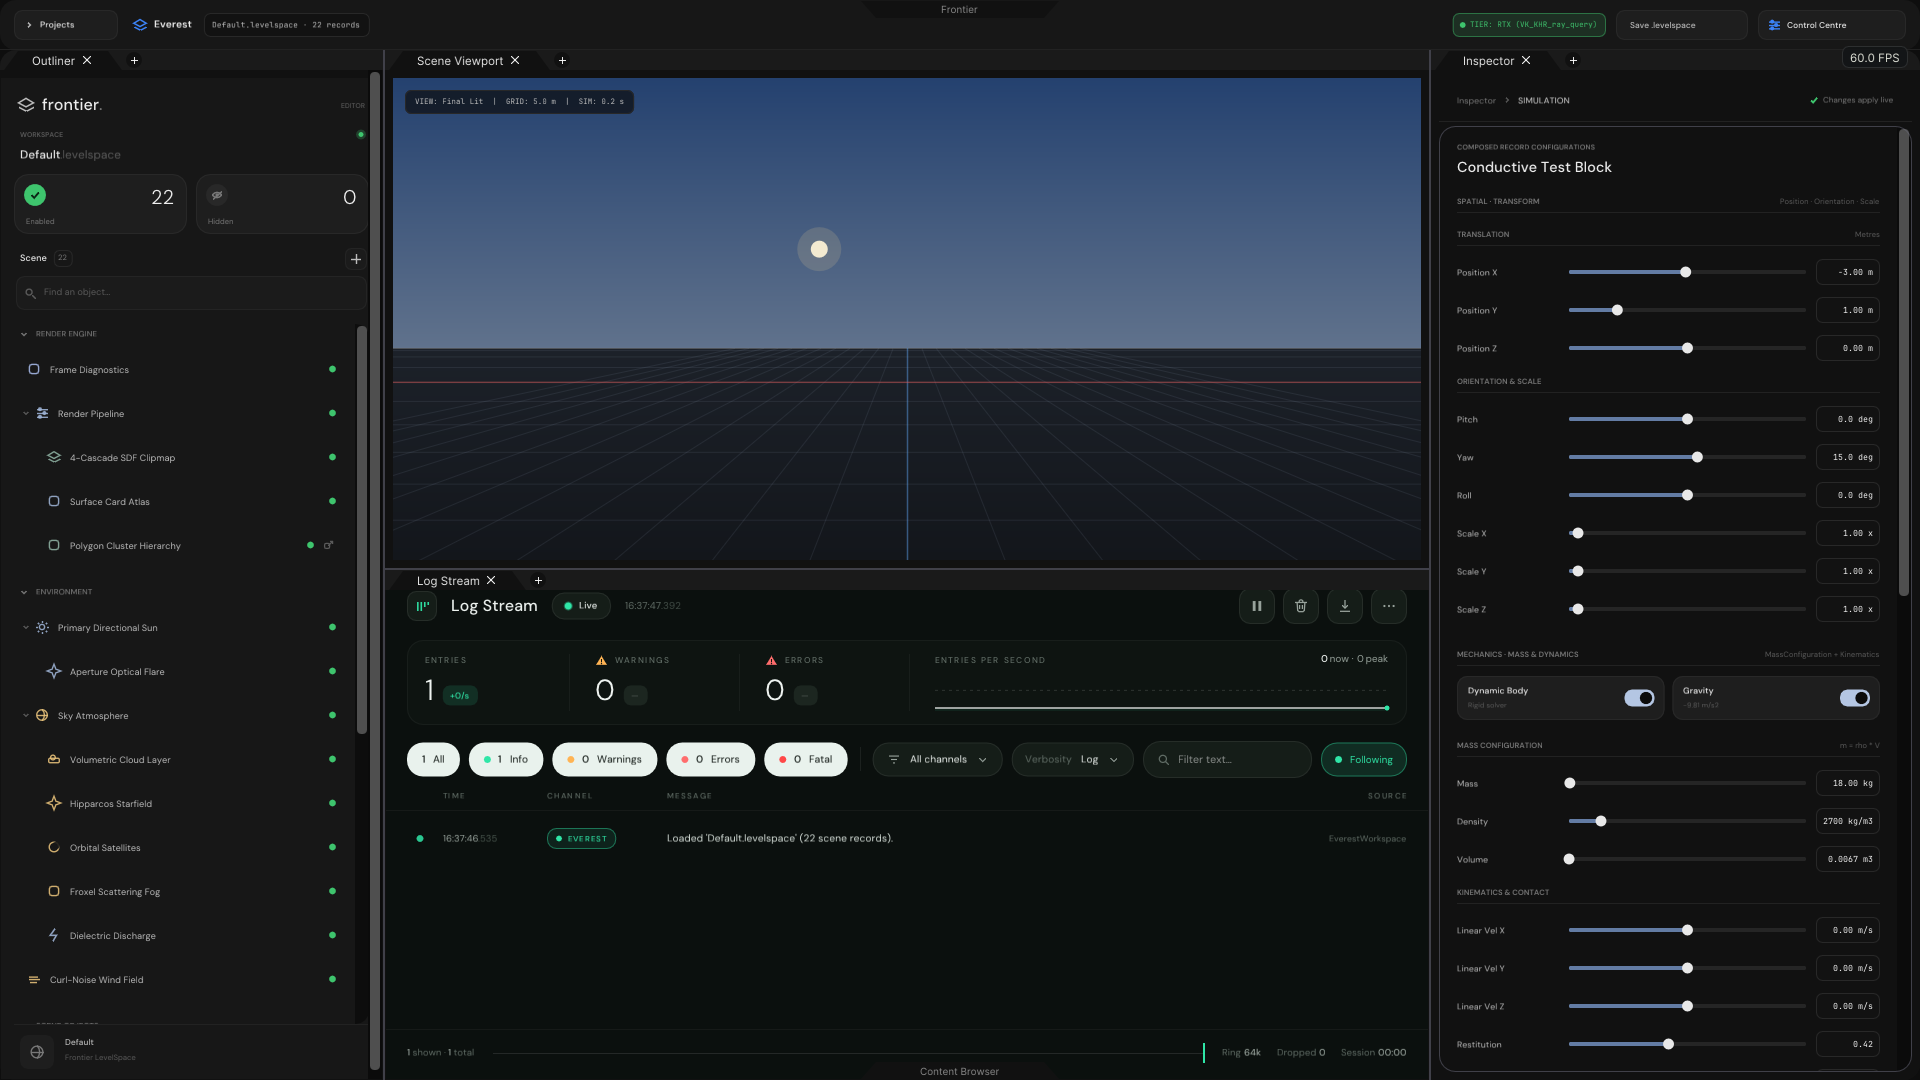
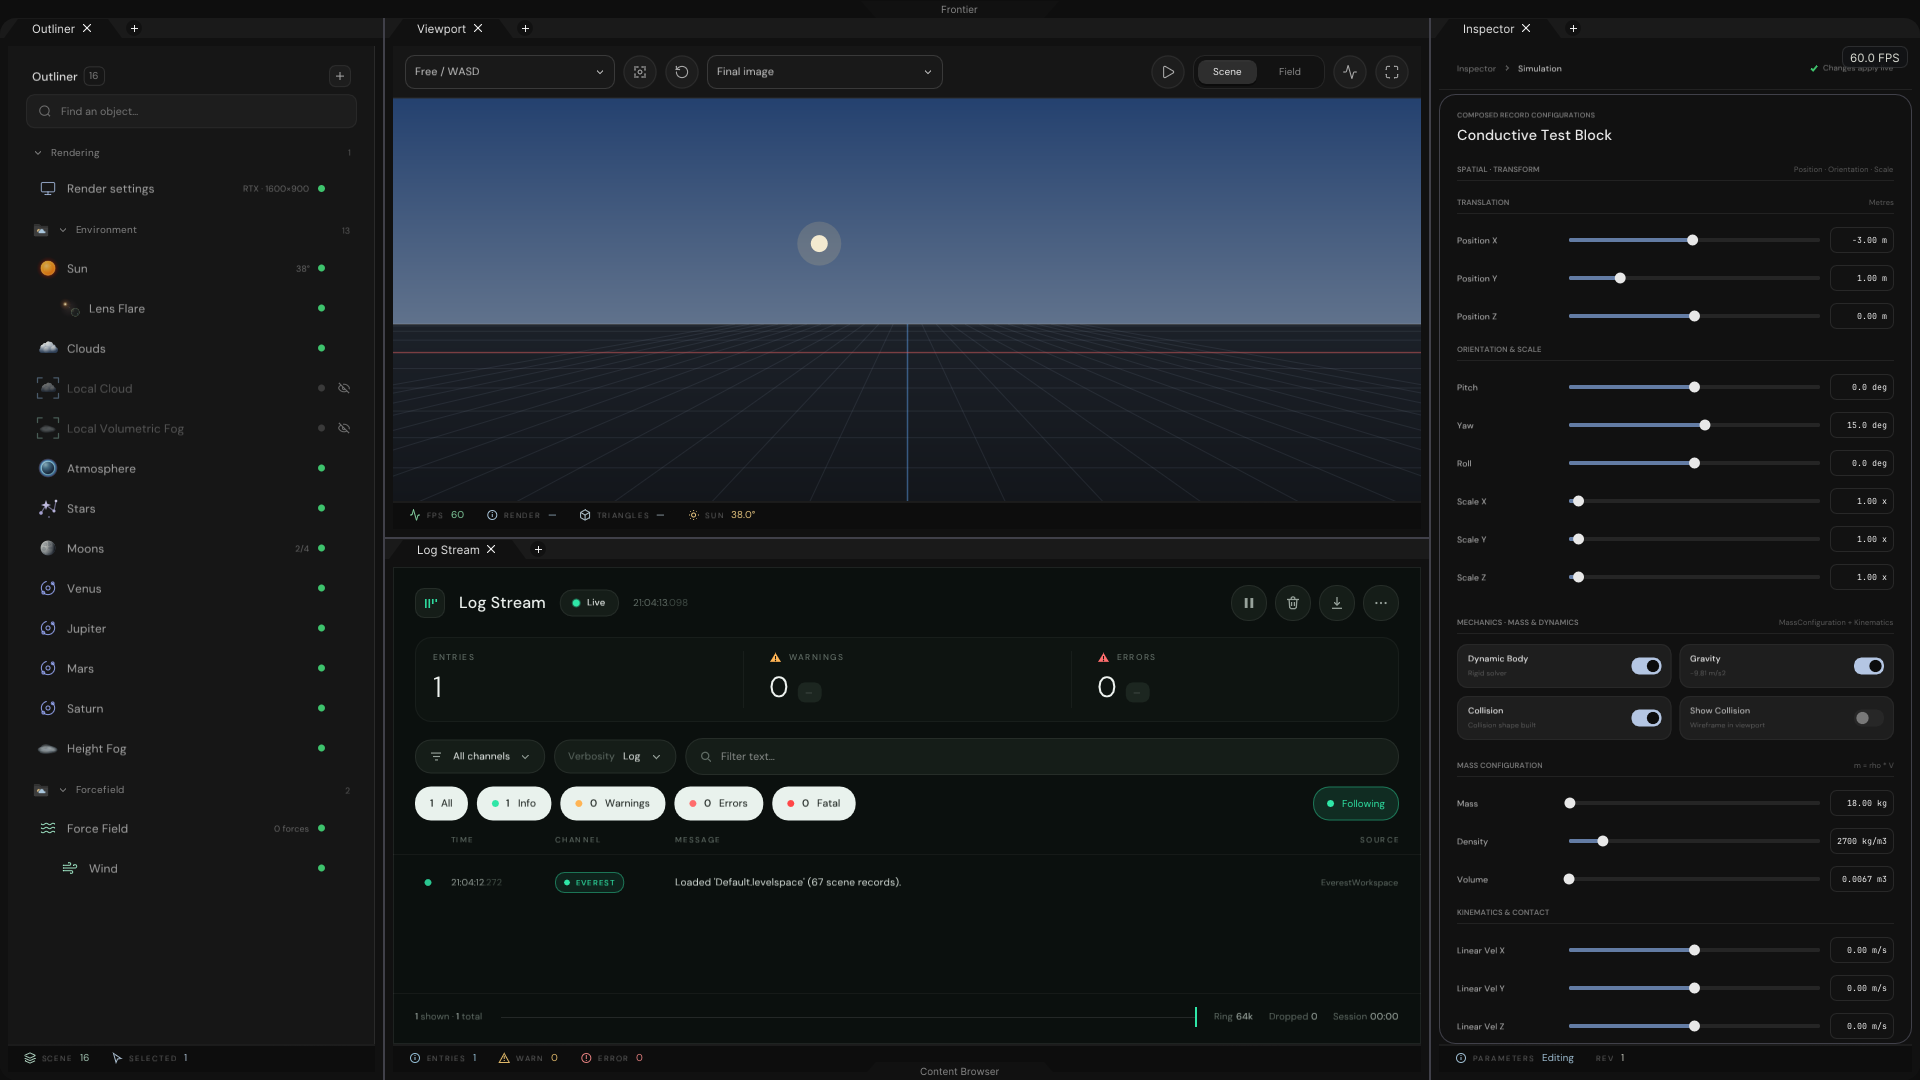
Physics-body collision tiles + fresh vehicle driving render
- PhysicsConfiguration gains Collision / ShowCollision (levelspace
  collision / show_collision in the physics subtable)
- PhysicsInspector switch grid gains Collision and Show Collision tiles,
  so RigidBody / ThermalBody and every composed physics body gets them
- PhysicsExtension builds no shape for a RigidBody with Collision off
- Viewport draws the body sphere wireframe (3 great circles) when
  Show collision is on
- PhysicsSpaceValidation 21/21: ball rests at 0.103 m with Collision on,
  no moving body with it off
- VehicleRunningProvingGround.gif re-rendered from a live
  VehicleWorkspaceCapture run (32 frames, launch to ABS brake)

diff --git a/Projects/Everest/Source/EverestWorkspace.cpp b/Projects/Everest/Source/EverestWorkspace.cpp
@@ -1322,6 +1322,36 @@ void EverestWorkspace::ConstructViewportSurface()
             for (const auto& Edge : Edges)
                 DrawList->AddLine(Corners[static_cast<size_t>(Edge[0])], Corners[static_cast<size_t>(Edge[1])], Ink, 1.5f * Scale);
         }
+        // 📝 Physics bodies (RigidBody records): the sphere of their volume the physics builds, as three great circles.
+        for (const Frontier::SceneRecordBase* Record : QueryWorldSpace().FindAllByType("RigidBody"))
+        {
+            const auto* Body = dynamic_cast<const Frontier::RigidBodyRecord*>(Record);
+            if (Body == nullptr || !Body->QueryPhysics().ShowCollision) continue;
+            const Frontier::PhysicsConfiguration& Physics = Body->QueryPhysics();
+            const double Volume = Physics.Mass.MassKilograms / std::max(1.0e-3f, Physics.Mass.DensityKgPerCubicMetre);
+            const double Radius = std::clamp(std::cbrt(3.0 * Volume / (4.0 * 3.14159265358979323846)), 0.05, 50.0);
+            const auto&  Centre = Body->QuerySpatial().PositionMetres;
+            const ImU32  Ink    = Physics.Collision ? IM_COL32(120, 230, 140, 220) : IM_COL32(230, 120, 110, 220);
+            constexpr int Segments = 32;
+            for (int Plane = 0; Plane < 3; ++Plane)
+            {
+                ImVec2 Previous{};
+                bool   Started = false;
+                for (int Step = 0; Step <= Segments; ++Step)
+                {
+                    const double Angle = 2.0 * 3.14159265358979323846 * Step / Segments;
+                    std::array<double, 3> Point = {Centre[0], Centre[1], Centre[2]};
+                    const int A = (Plane + 1) % 3, B = (Plane + 2) % 3;
+                    Point[static_cast<size_t>(A)] += Radius * std::cos(Angle);
+                    Point[static_cast<size_t>(B)] += Radius * std::sin(Angle);
+                    ImVec2 Screen{};
+                    if (!View.Project(Point, Screen)) { Started = false; continue; }
+                    if (Started) DrawList->AddLine(Previous, Screen, Ink, 1.5f * Scale);
+                    Previous = Screen;
+                    Started  = true;
+                }
+            }
+        }
     }
     if (Edited != nullptr && Image.Texture != 0)
     {

diff --git a/Exhibits/Physics/Code/PhysicsSpaceValidation.cpp b/Exhibits/Physics/Code/PhysicsSpaceValidation.cpp
@@ -466,6 +466,31 @@ int main(int ArgumentCount, char** Arguments)
         else Expect(false, "Geometry records construct for the collision case");
     }
 
+    // ⑦c the Physics inspector's Collision tile on a physics body (RigidBody): on falls and rests on the ground;
+    //     off never enters the space
+    {
+        WorldSpace        World;
+        const RecordToken Ball = World.ConstructRecord("RigidBody", "Ball");
+        auto*             BallRecord = dynamic_cast<RigidBodyRecord*>(World.FindRecord(Ball));
+        if (BallRecord)
+        {
+            BallRecord->AccessSpatial().PositionMetres[2] = 5.0f;
+            BallRecord->AccessPhysics().ShowCollision     = true;
+            PhysicsExtension Bridge;
+            Expect(Bridge.Begin(World) == 1, "a RigidBody with Collision on makes 1 moving body");
+            for (int Step = 0; Step < 4 * 60; ++Step) (void)Bridge.Step(World, 1.0 / 60.0);
+            const float Rested = BallRecord->QuerySpatial().PositionMetres[2];
+            Expect(Rested > 0.0f && Rested < 1.0f, "the ball rests on the ground: origin at " + Figure("%.3f", Rested) + " m");
+            Bridge.End(World);
+
+            BallRecord->AccessPhysics().Collision = false;   // 📝 the tile, off: no shape is built
+            PhysicsExtension SecondBridge;
+            Expect(SecondBridge.Begin(World) == 0, "a RigidBody with Collision off makes no moving body");
+            SecondBridge.End(World);
+        }
+        else Expect(false, "RigidBody record constructs for the collision case");
+    }
+
     // ⑧ 1000 boxes falling onto the ground: the cost of a step
     double StepMilliseconds = 0.0;
     {

diff --git a/Frontier/Engine/Scene/WorldSpace.cpp b/Frontier/Engine/Scene/WorldSpace.cpp
@@ -212,6 +212,8 @@ void SerializePhysicsSubtable(toml::table& OutTable, const PhysicsConfiguration&
     OutTable.insert_or_assign("linear_damping", static_cast<double>(Physics.LinearDamping));
     OutTable.insert_or_assign("dynamic_body", Physics.DynamicBody);
     OutTable.insert_or_assign("gravity_coupled", Physics.GravityCoupled);
+    OutTable.insert_or_assign("collision", Physics.Collision);
+    OutTable.insert_or_assign("show_collision", Physics.ShowCollision);
 }
 
 void DeserializePhysicsSubtable(const toml::table& InTable, PhysicsConfiguration& Physics)
@@ -227,6 +229,8 @@ void DeserializePhysicsSubtable(const toml::table& InTable, PhysicsConfiguration
     Physics.LinearDamping   = ReadFloat(InTable, "linear_damping", Physics.LinearDamping);
     Physics.DynamicBody     = ReadBool(InTable, "dynamic_body", Physics.DynamicBody);
     Physics.GravityCoupled  = ReadBool(InTable, "gravity_coupled", Physics.GravityCoupled);
+    Physics.Collision       = ReadBool(InTable, "collision", Physics.Collision);
+    Physics.ShowCollision   = ReadBool(InTable, "show_collision", Physics.ShowCollision);
     Physics.AdvanceRevision();
 }
 

diff --git a/Frontier/Extensions/Physics/PhysicsExtension.cpp b/Frontier/Extensions/Physics/PhysicsExtension.cpp
@@ -201,6 +201,14 @@ size_t PhysicsExtension::Begin(WorldSpace& World, const PhysicsExtensionSettings
             ++Tally.Skipped;
             continue;
         }
+        if (!Record->QueryPhysics().Collision)
+        {
+            // 📝 Collision off on the body's inspector tile: no shape is built, so the body never enters the space.
+            Entry.Physics = PhysicsParticipation::Skipped;
+            Entry.Remark  = "collision disabled on the body";
+            ++Tally.Skipped;
+            continue;
+        }
         const PhysicsConfiguration& Physics = Record->QueryPhysics();
         const double Volume = Physics.Mass.MassKilograms / std::max(1.0e-3f, Physics.Mass.DensityKgPerCubicMetre);
         PhysicsBodyDescriptor Body;

diff --git a/Frontier/Engine/Scene/EngineConfigurations.h b/Frontier/Engine/Scene/EngineConfigurations.h
@@ -744,6 +744,8 @@ struct PhysicsConfiguration : RevisionCounter
     float             LinearDamping            = 0.04f;
     bool              DynamicBody              = true;
     bool              GravityCoupled           = true;
+    bool              Collision                = true;    // [-] authored: the physics builds this body's collision shape; off removes it
+    bool              ShowCollision            = false;   // [-] the viewport draws the collision shape's wireframe over the body
 
     [[nodiscard]] float ComputeLinearSpeedMps() const noexcept
     {

diff --git a/Frontier/Engine/Interface/Inspectors/PhysicsInspector.cpp b/Frontier/Engine/Interface/Inspectors/PhysicsInspector.cpp
@@ -26,6 +26,8 @@ void PhysicsInspector::EnumerateSwitches(std::vector<InspectorSwitchEntry>& OutS
 {
     OutSwitches.push_back({"Dynamic Body", "Rigid solver", &Parameters.DynamicBody});
     OutSwitches.push_back({"Gravity", "-9.81 m/s2", &Parameters.GravityCoupled});
+    OutSwitches.push_back({"Collision", "Collision shape built", &Parameters.Collision});
+    OutSwitches.push_back({"Show Collision", "Wireframe in viewport", &Parameters.ShowCollision});
 }
 
 void PhysicsInspector::ConstructInspector()

diff --git a/Exhibits/Physics/Results/PhysicsSpaceValidation.md b/Exhibits/Physics/Results/PhysicsSpaceValidation.md
@@ -20,7 +20,10 @@ JoltPhysics 5.6.0 behind `Frontier/Extensions/Physics` (cross-platform determini
 | 🟢 | collision off: only the ground collider remains (fixed 1) |
 | 🟢 | the crate falls through the collision-less pedestal to the ground: origin at 0.500 m (0.5 expected) |
 | 🟢 | a Physics record with Collision off makes no moving body |
-| 🟢 | 1000 falling boxes: 1.20 ms per 1/60 s step on 1 workers (this sandbox, Debug build of the extension) |
+| 🟢 | a RigidBody with Collision on makes 1 moving body |
+| 🟢 | the ball rests on the ground: origin at 0.103 m |
+| 🟢 | a RigidBody with Collision off makes no moving body |
+| 🟢 | 1000 falling boxes: 1.17 ms per 1/60 s step on 1 workers (this sandbox, Debug build of the extension) |
 | 🟢 | capture written: PhysicsSpaceFalling.png |
 
-18 / 18 assertions.
+21 / 21 assertions.
